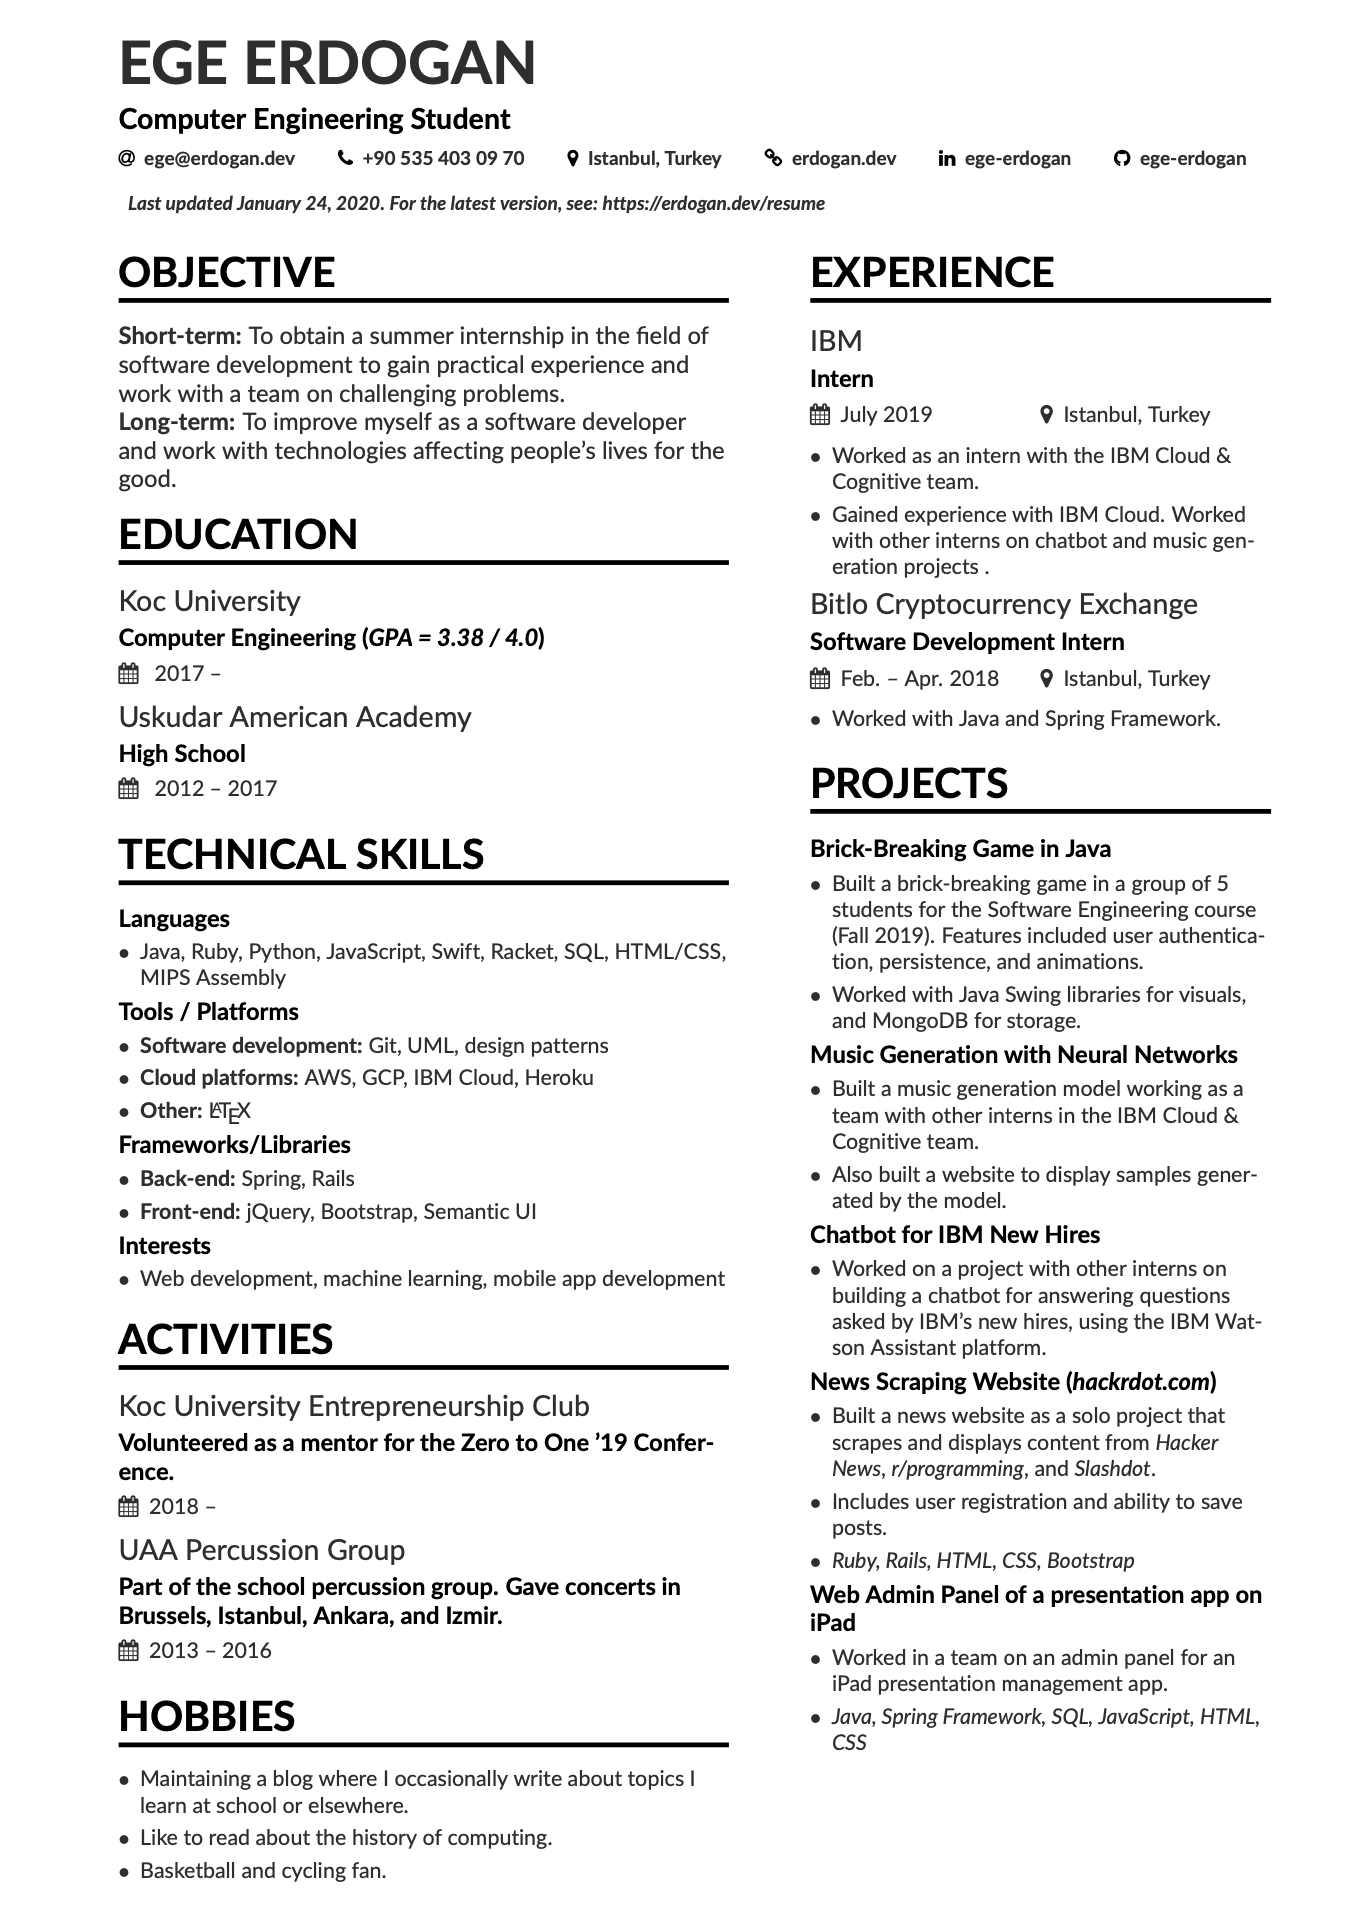
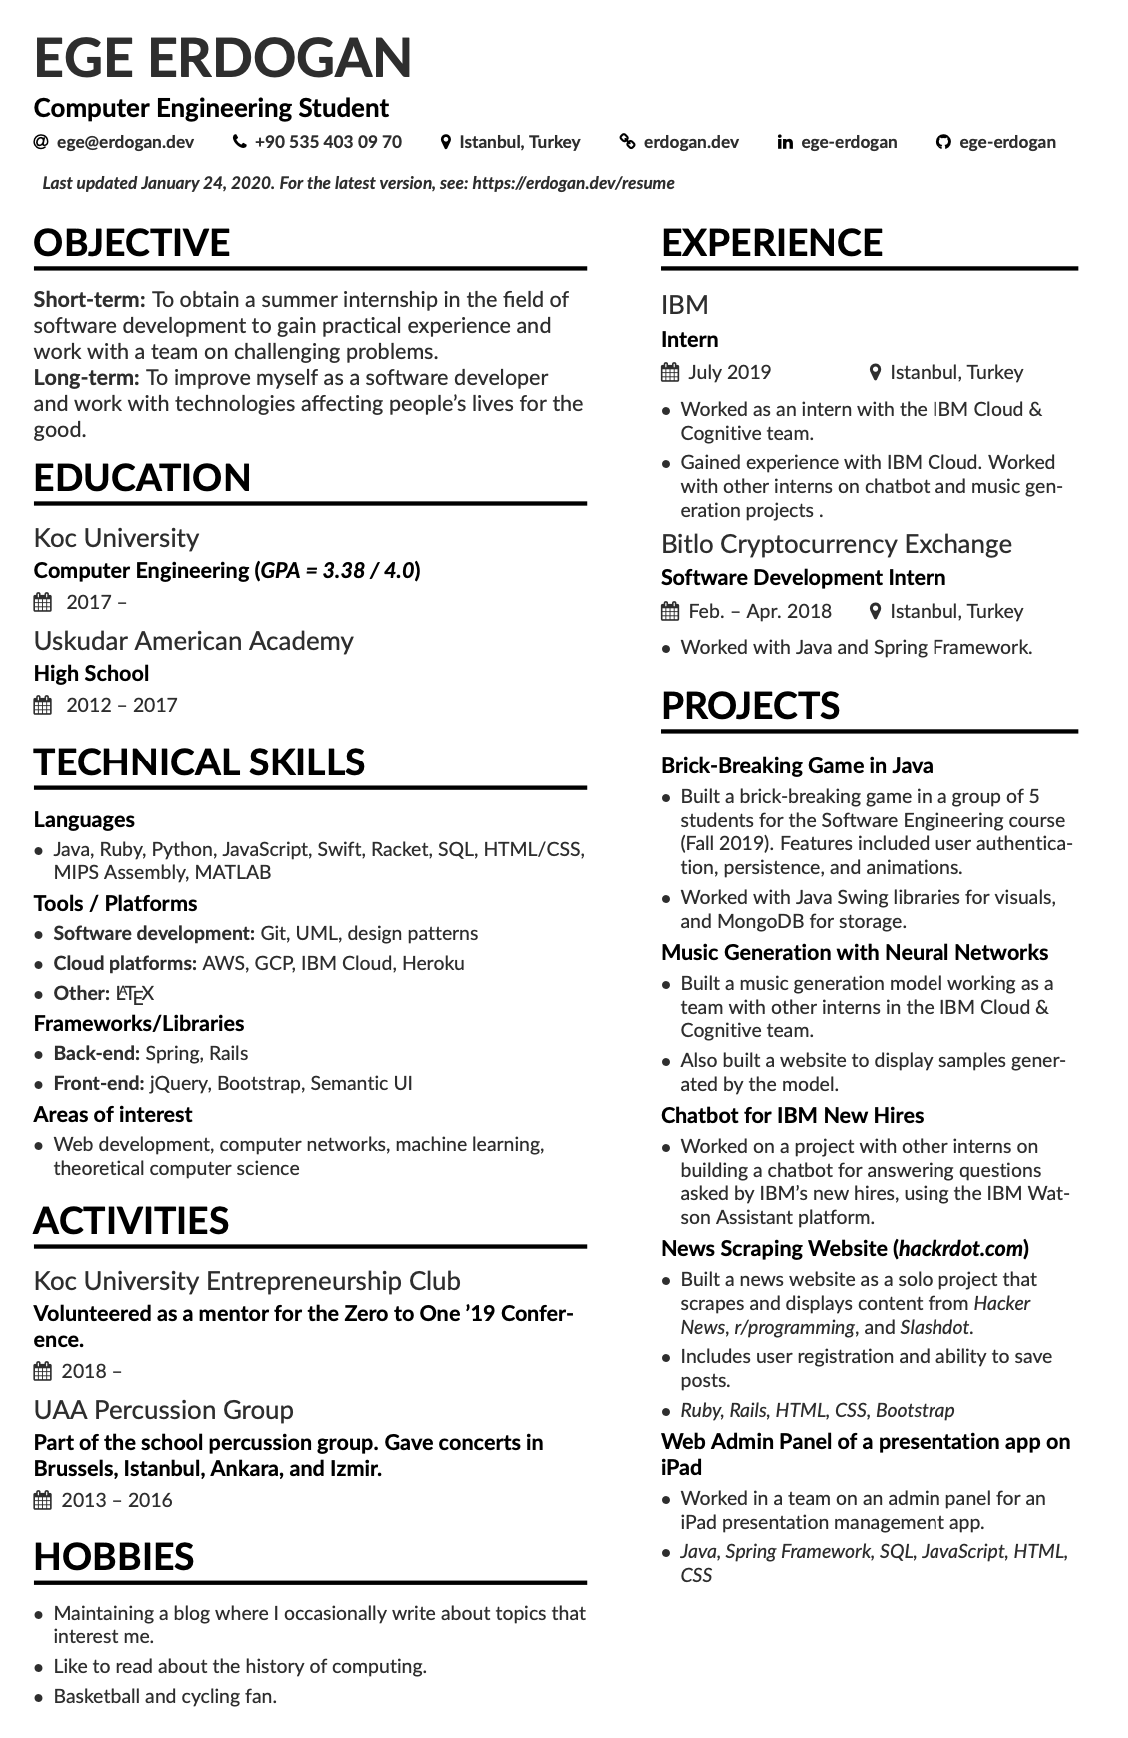
areas of interest

diff --git a/resume.tex b/resume.tex
@@ -71,7 +71,7 @@
 \cvsection{TECHNICAL SKILLS}
 \cvproject{Languages}
 \begin{itemize}
-\item Java, Ruby, Python, JavaScript, Swift, Racket, SQL, HTML/CSS, MIPS Assembly
+\item Java, Ruby, Python, JavaScript, Swift, Racket, SQL, HTML/CSS, MIPS Assembly, MATLAB
 \end{itemize}
 
 \cvproject{Tools / Platforms}
@@ -87,9 +87,9 @@
 \item \textbf{Front-end: }jQuery, Bootstrap, Semantic UI
 \end{itemize}
 
-\cvproject{Interests}
+\cvproject{Areas of interest}
 \begin{itemize}
-\item Web development, machine learning, mobile app development
+\item Web development, computer networks, machine learning, theoretical computer science
 \end{itemize}
 
 
@@ -99,7 +99,7 @@
 
 \cvsection{Hobbies}
 \begin{itemize}
-\item Maintaining a blog where I occasionally write about topics I learn at school or elsewhere.
+\item Maintaining a blog where I occasionally write about topics that interest me.
 \item Like to read about the history of computing.
 \item Basketball and cycling fan.
 \end{itemize}
